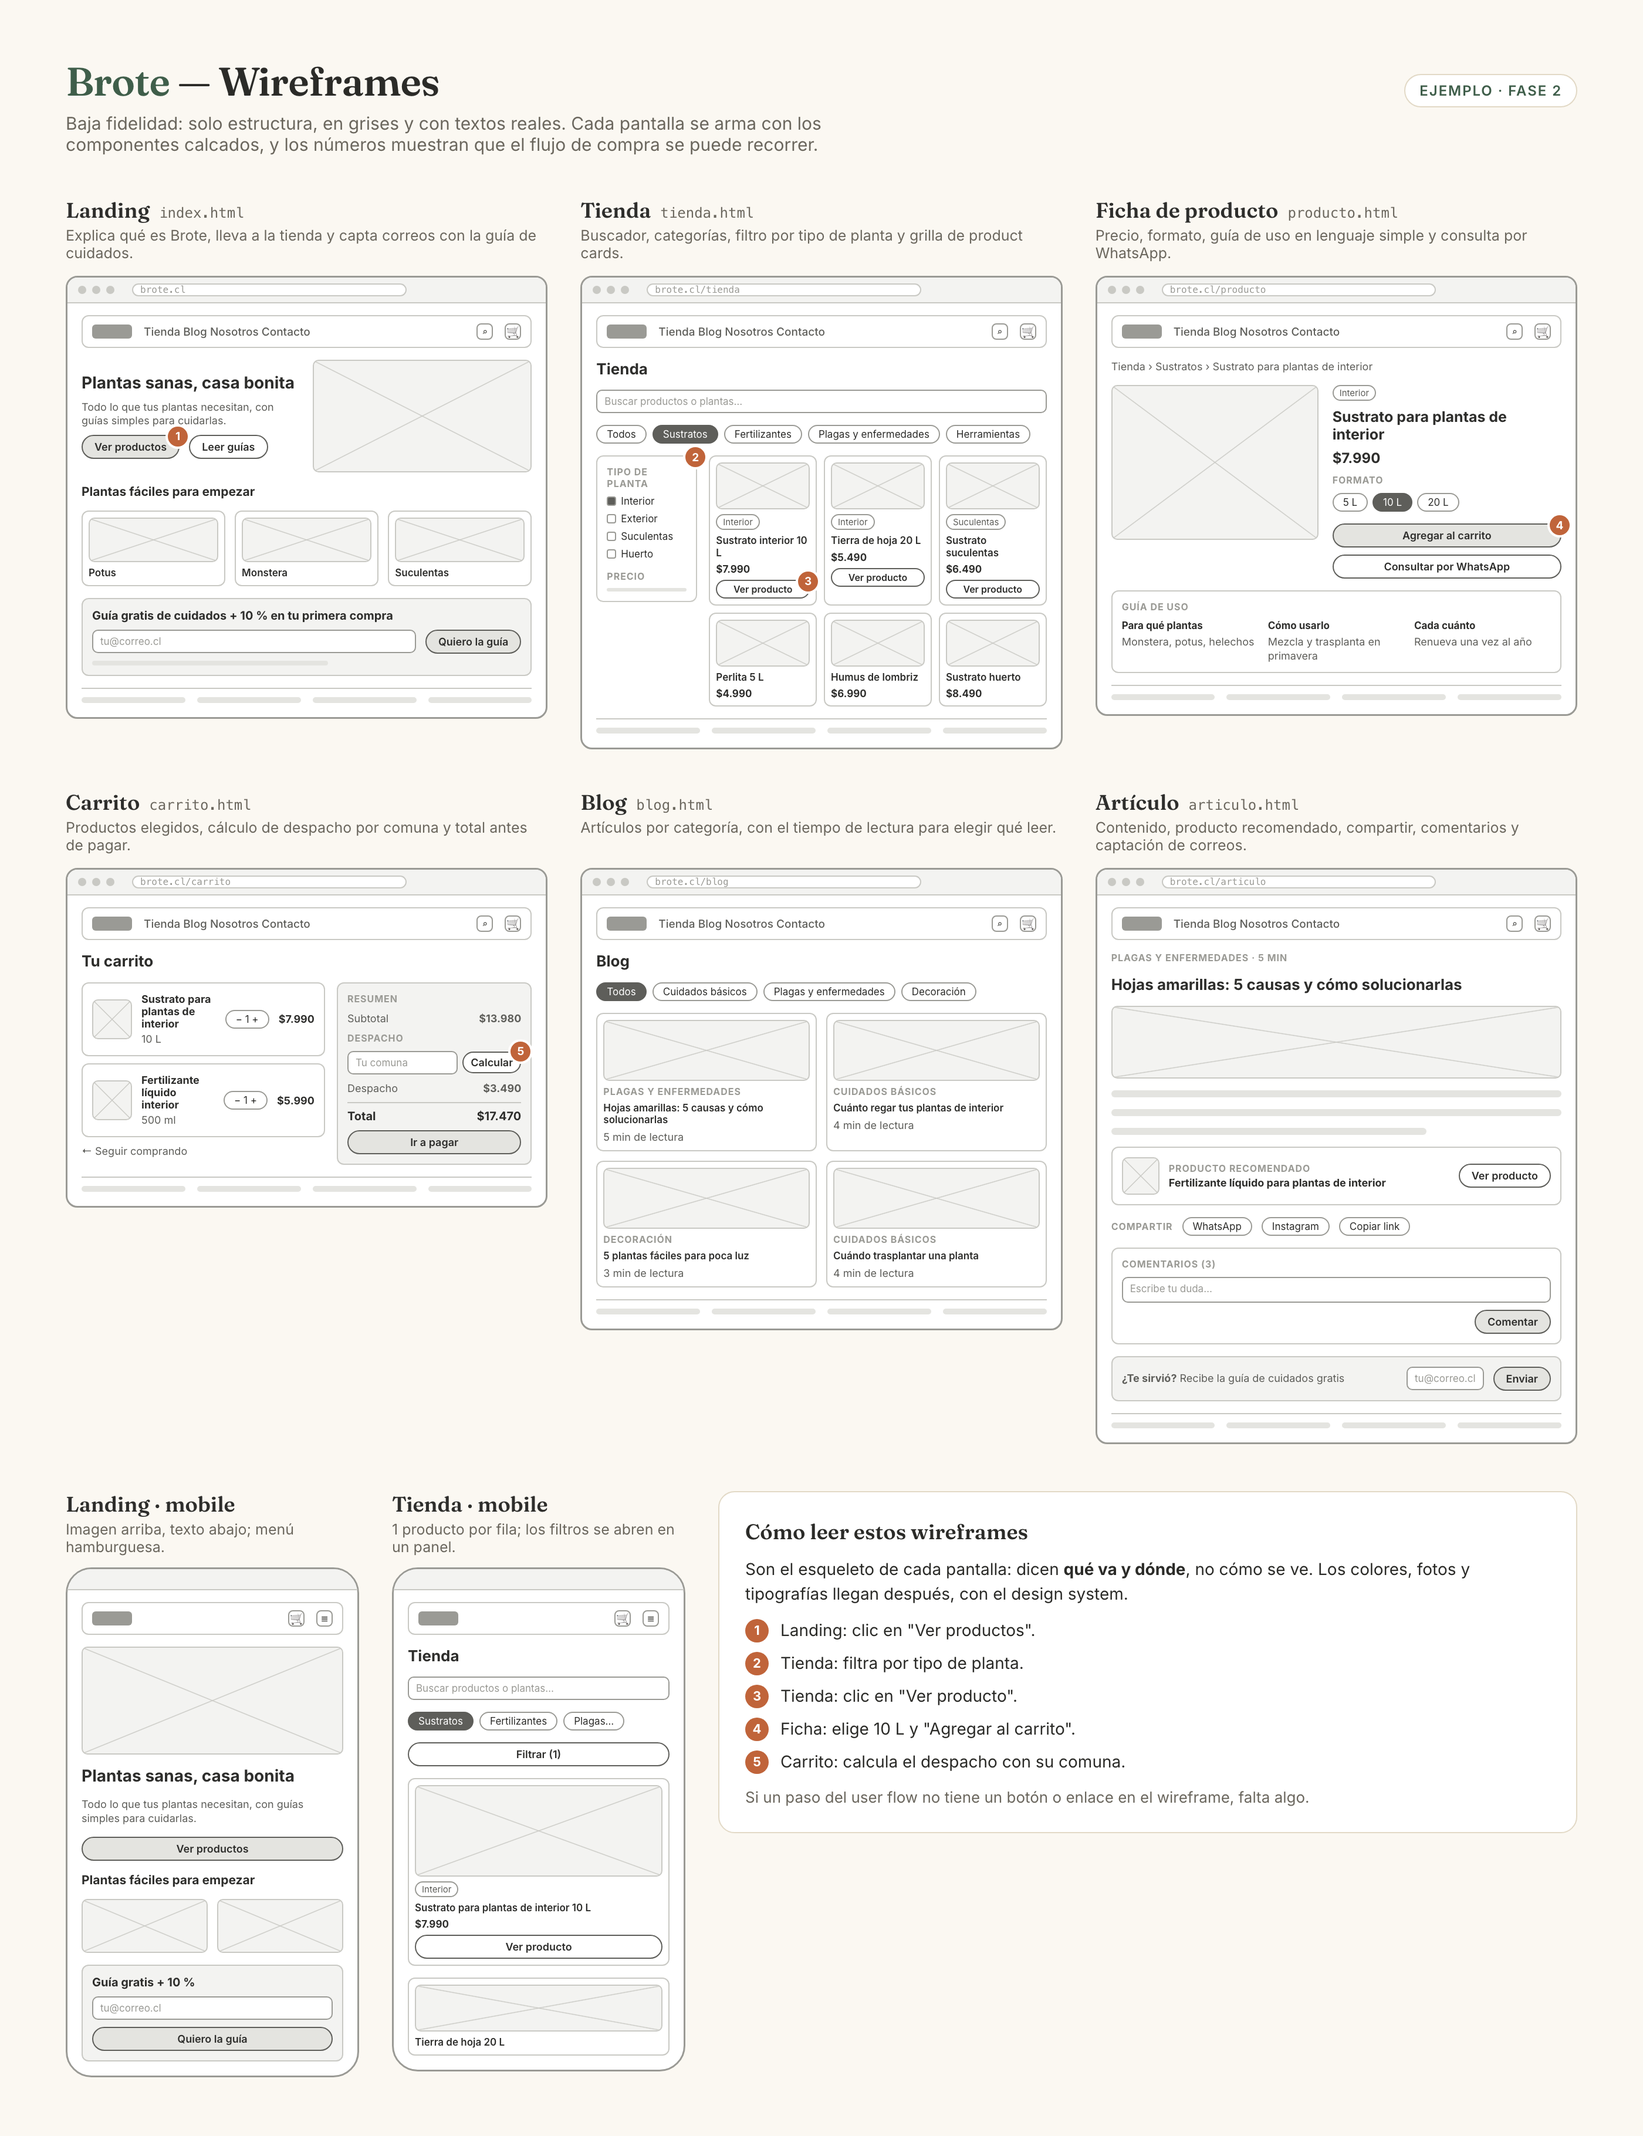
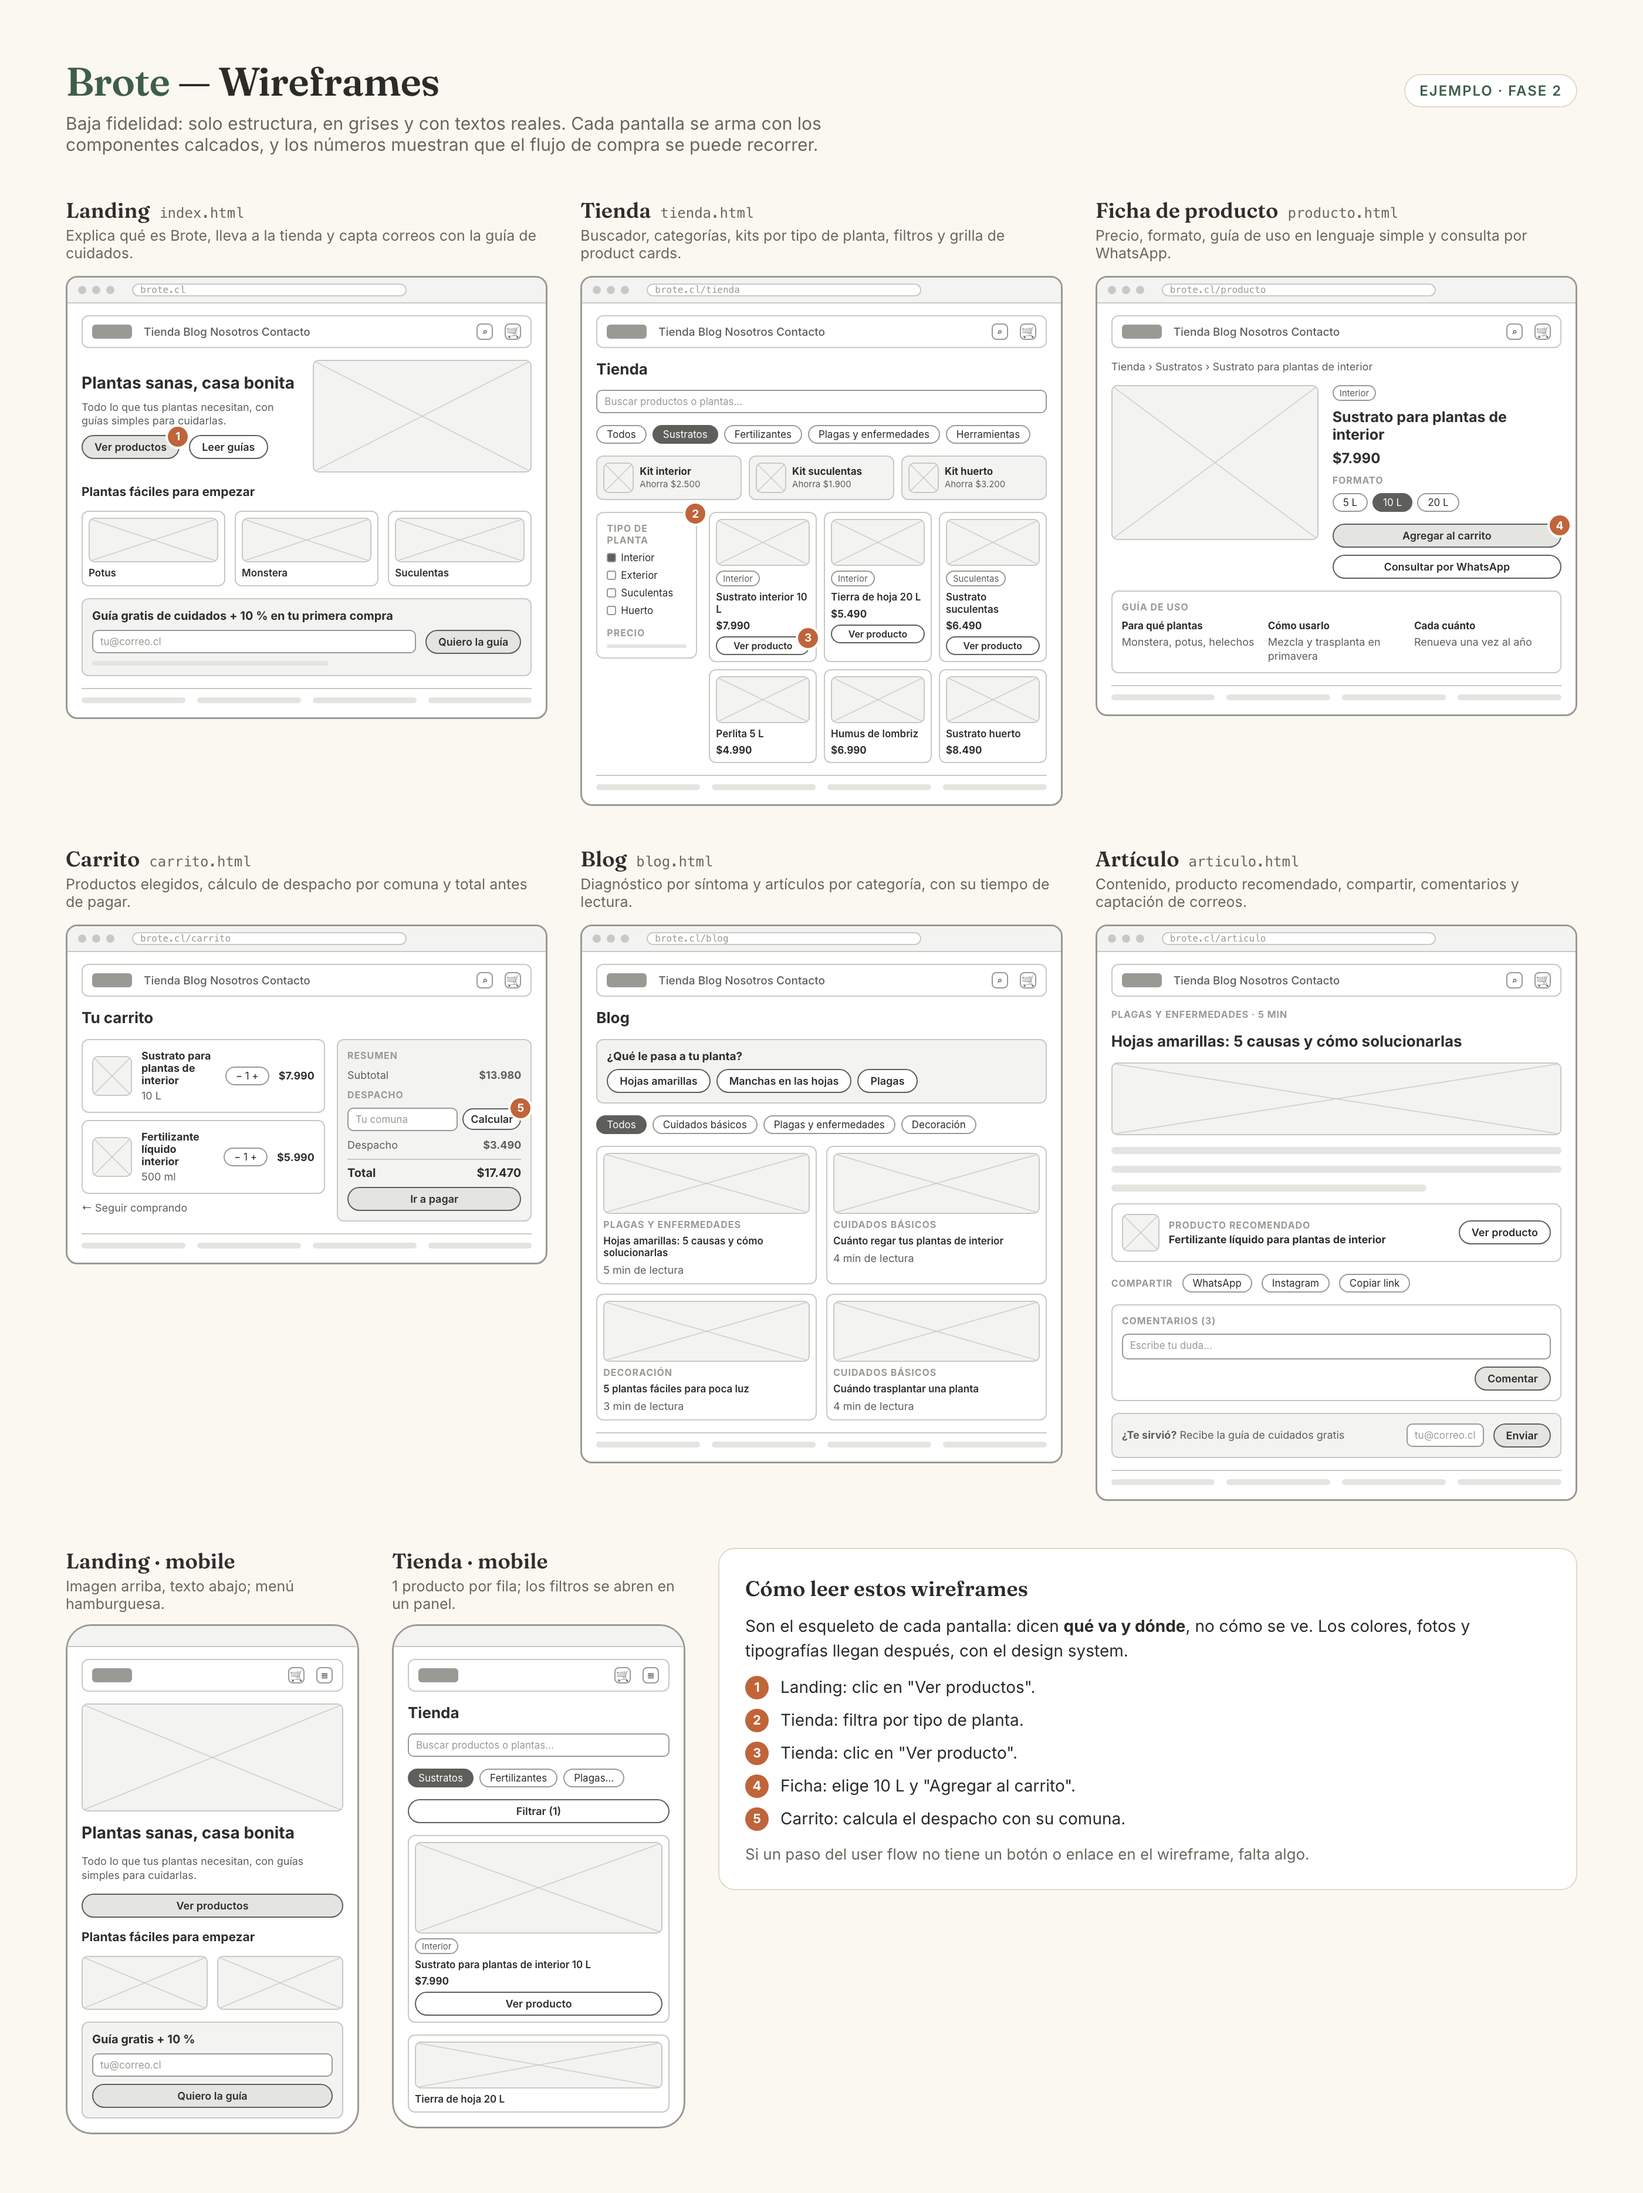
Mejora guías y plantillas tras probar el proyecto demo
- Wireframes: paso y checklist para revisar que cada funcionalidad
  imprescindible y deseable aparezca en alguna pantalla; la imagen de
  ejemplo ahora incluye kits en la tienda y diagnóstico en el blog.
- Plantilla de funcionalidades: agrega la sección de objetivos.
- Responsive: la guía y la plantilla de spec de diseño incluyen tablet,
  con los mismos breakpoints de la spec de desarrollo.

diff --git a/evaluacion/guias/fase-2-specs/06-spec-de-diseno.md b/evaluacion/guias/fase-2-specs/06-spec-de-diseno.md
@@ -60,7 +60,7 @@ Para cada una de las 6 pantallas, lista los componentes en orden, de arriba haci
 
 ### 4. Responsive
 
-Describe qué cambia en mobile: cuántas columnas, qué se oculta, qué se transforma (por ejemplo, el menú pasa a ser un botón de hamburguesa, los filtros se abren en un panel).
+Describe qué cambia en **mobile** y en **tablet** respecto de desktop: cuántas columnas, qué se oculta, qué se transforma (por ejemplo, el menú pasa a ser un botón de hamburguesa, los filtros se abren en un panel). Usa los mismos anchos que vas a definir como breakpoints en la spec de desarrollo: mobile hasta 767 px, tablet desde 768 px y desktop desde 1024 px.
 
 ## Ejemplo (fragmento)
 
@@ -112,17 +112,18 @@ Escala: 4 · 8 · 16 · 24 · 32 · 48 · 64 px.
 1. Navbar
 2. Título "Tienda" + buscador
 3. Chips de categoría (Todos, Sustratos, Fertilizantes, Plagas y enfermedades, Herramientas, Insumos)
-4. Columna de filtros (tipo de planta, precio) + grilla de product cards
-5. Footer
+4. Fila de kits por tipo de planta (Kit interior, Kit suculentas, Kit huerto)
+5. Columna de filtros (tipo de planta, precio) + grilla de product cards
+6. Footer
 
 ## 4. Responsive
 
-| Elemento | Desktop | Mobile |
-|---|---|---|
-| Navbar | Enlaces visibles | Menú hamburguesa; carrito siempre visible |
-| Grilla de productos | 3 columnas | 1 columna |
-| Filtros | Columna a la izquierda | Botón "Filtrar" que abre un panel |
-| Hero | Texto e imagen lado a lado | Imagen arriba, texto abajo |
+| Elemento | Desktop (desde 1024 px) | Tablet (768 a 1023 px) | Mobile (hasta 767 px) |
+|---|---|---|---|
+| Navbar | Enlaces visibles | Enlaces visibles | Menú hamburguesa; carrito siempre visible |
+| Grilla de productos | 3 columnas | 2 columnas | 1 columna |
+| Filtros | Columna a la izquierda | Botón "Filtrar" que abre un panel | Botón "Filtrar" que abre un panel |
+| Hero | Texto e imagen lado a lado | Texto e imagen lado a lado | Imagen arriba, texto abajo |
 ```
 
 Así se ven la product card, los botones, los chips y los campos de texto de Brote con sus foundations y estados. Fíjate en la regla del nombre: si ocupa más de 2 líneas, termina en "…".
@@ -156,5 +157,5 @@ Revisa todo lo que proponga: tú decides las reglas.
 - [ ] Foundations: colores, tipografías, espaciados, bordes, radios, sombras
 - [ ] Cada componente con contenido, reglas, estilo y estados
 - [ ] Componentes de las 6 pantallas, con link a los wireframes
-- [ ] Tabla de comportamiento responsive
+- [ ] Tabla de comportamiento responsive para desktop, tablet y mobile
 - [ ] Todas las reglas son concretas y verificables

diff --git a/evaluacion/guias/fase-2-specs/04-wireframes.md b/evaluacion/guias/fase-2-specs/04-wireframes.md
@@ -37,7 +37,13 @@ En vez de "Lorem ipsum", escribe los títulos y textos reales: "Sustrato para pl
 
 En Whimsical puedes unir con flechas los botones con la pantalla a la que llevan. Recorre tu user flow sobre los wireframes: si en algún paso no hay un botón para avanzar, falta algo.
 
-### 6. (Recomendado) Haz también la versión mobile
+### 6. Revisa que estén todas tus funcionalidades
+
+Abre tu tabla de funcionalidades y, para cada una **imprescindible y deseable**, busca en qué wireframe ocurre. Si una funcionalidad no aparece en ninguna pantalla, falta un componente o una sección. Por ejemplo, en Brote los kits por tipo de planta necesitan una fila en la tienda, y el diagnóstico por síntoma, un bloque en el blog.
+
+Las funcionalidades de prioridad **futuro** no necesitan aparecer.
+
+### 7. (Recomendado) Haz también la versión mobile
 
 Tu proto-persona probablemente compra desde el celular. Haz la versión mobile al menos de la landing y la tienda: te va a ayudar a definir el comportamiento responsive en la spec.
 
@@ -75,11 +81,13 @@ Y las 6 pantallas de Brote, más la versión mobile de la landing y la tienda. L
 - **Pantallas que no siguen el user flow**: botones que no llevan a ninguna parte o pasos sin botón.
 - **Inventar componentes nuevos en cada pantalla** en vez de reutilizar los calcados.
 - **Faltan pantallas**: son 6.
+- **Funcionalidades sin lugar**: están en la tabla de funcionalidades, pero no aparecen en ninguna pantalla.
 
 ## Checklist
 
 - [ ] Wireframes de landing, blog, artículo, tienda, ficha de producto y carrito
 - [ ] Construidos con los componentes calcados
 - [ ] Los botones y enlaces permiten recorrer el user flow
+- [ ] Cada funcionalidad imprescindible y deseable aparece en algún wireframe
 - [ ] Textos reales o cercanos a los reales
 - [ ] Link del tablero abierto, pegado en la spec de diseño

diff --git a/evaluacion/guias/fase-2-specs/07-spec-de-desarrollo.md b/evaluacion/guias/fase-2-specs/07-spec-de-desarrollo.md
@@ -38,7 +38,7 @@ Para cada página, define qué etiquetas HTML5 la estructuran: `header`, `nav`, 
 
 - **Variables en `:root`** con todas las foundations de tu spec de diseño. Así, si cambias un color, cambia en todo el sitio.
 - **Nombres de clases** claros y consistentes, en inglés o en español, pero siempre en el mismo idioma (`.product-card`, `.btn-primary`).
-- **Breakpoints**: en qué anchos cambia el diseño.
+- **Breakpoints**: en qué anchos cambia el diseño. Usa los mismos de la tabla responsive de tu spec de diseño.
 - **Archivos**: un solo `styles.css` o varios (`base.css`, `components.css`...).
 
 ### 5. Criterios de aceptación
@@ -166,7 +166,7 @@ brote-jardineria/
 - [ ] Los botones tienen estado hover.
 
 **Responsive**
-- [ ] En mobile la tienda muestra 1 producto por fila; en desktop, 3.
+- [ ] En mobile la tienda muestra 1 producto por fila; en tablet, 2; en desktop, 3.
 - [ ] No hay scroll horizontal en 375 px de ancho.
 
 **Accesibilidad y publicación**

diff --git a/evaluacion/guias/fase-3-implementacion/01-prototipo-en-stitch.md b/evaluacion/guias/fase-3-implementacion/01-prototipo-en-stitch.md
@@ -76,11 +76,13 @@ Componentes en orden:
 2. Título "Tienda" y buscador "Buscar productos o plantas".
 3. Chips de categoría: Todos, Sustratos, Fertilizantes, Plagas y
    enfermedades, Herramientas, Insumos.
-4. Columna de filtros a la izquierda (tipo de planta, precio) y grilla de
+4. Fila de 3 kits por tipo de planta (interior, suculentas, huerto), cada
+   uno con lo que incluye, precio y ahorro.
+5. Columna de filtros a la izquierda (tipo de planta, precio) y grilla de
    3 columnas de product cards.
-5. Product card: imagen cuadrada, etiqueta de tipo de planta, nombre
+6. Product card: imagen cuadrada, etiqueta de tipo de planta, nombre
    (máx. 2 líneas), precio siempre visible, botón "Ver producto".
-6. Footer con enlaces a preguntas frecuentes, términos, privacidad y redes.
+7. Footer con enlaces a preguntas frecuentes, términos, privacidad y redes.
 ```
 
 ## Errores comunes

diff --git a/docs/03-funcionalidades.md b/docs/03-funcionalidades.md
@@ -2,6 +2,17 @@
 
 > Guía: [Objetivos del usuario y funcionalidades](../evaluacion/guias/fase-1-requerimientos/03-funcionalidades.md)
 
+## Objetivos de la proto-persona en el sitio
+
+<!-- Qué quiere lograr tu proto-persona cuando entra a tu sitio.
+Revisa sus necesidades y frustraciones: ahí suelen estar los objetivos. -->
+
+1.
+2.
+3.
+
+## Funcionalidades
+
 <!-- Incluye las 7 funcionalidades base y al menos 5 propias.
 Redáctalas como "El usuario debe poder...".
 Prioridad: Imprescindible / Deseable / Futuro. -->

diff --git a/docs/09-spec-diseno.md b/docs/09-spec-diseno.md
@@ -37,6 +37,8 @@ Ver [08-color-tipografia.md](08-color-tipografia.md).
 
 ## 4. Responsive
 
-| Elemento | Desktop | Mobile |
-|---|---|---|
-| | | |
+<!-- Mobile hasta 767 px · Tablet de 768 a 1023 px · Desktop desde 1024 px -->
+
+| Elemento | Desktop | Tablet | Mobile |
+|---|---|---|---|
+| | | | |
